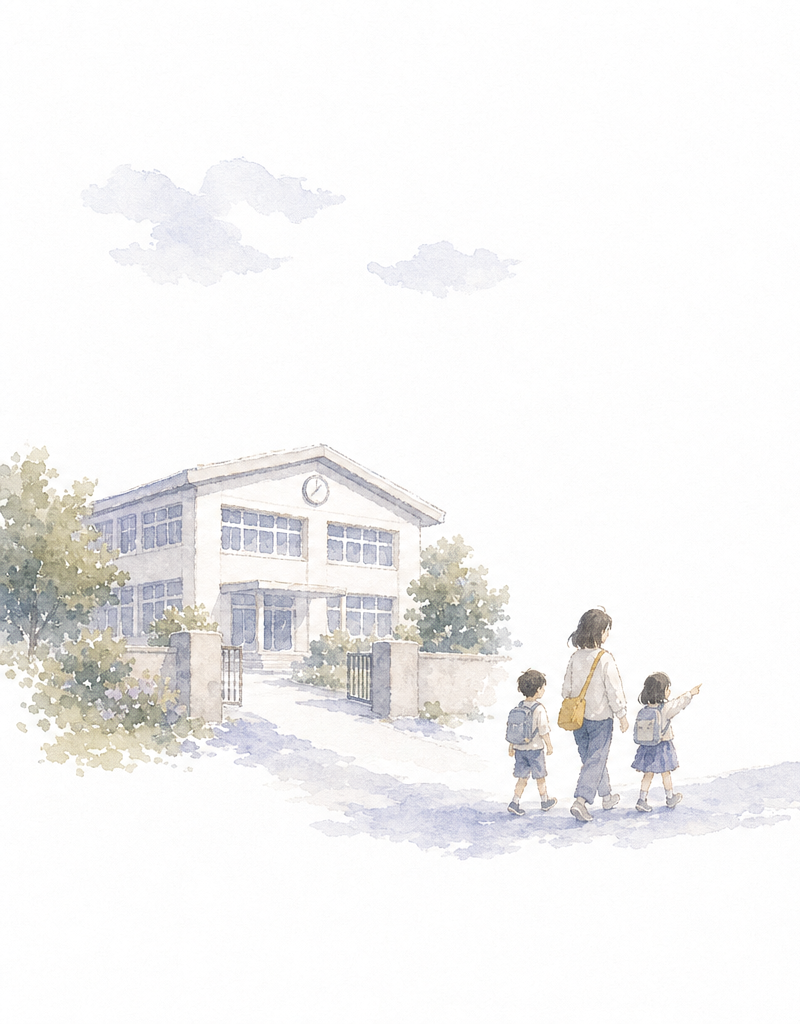
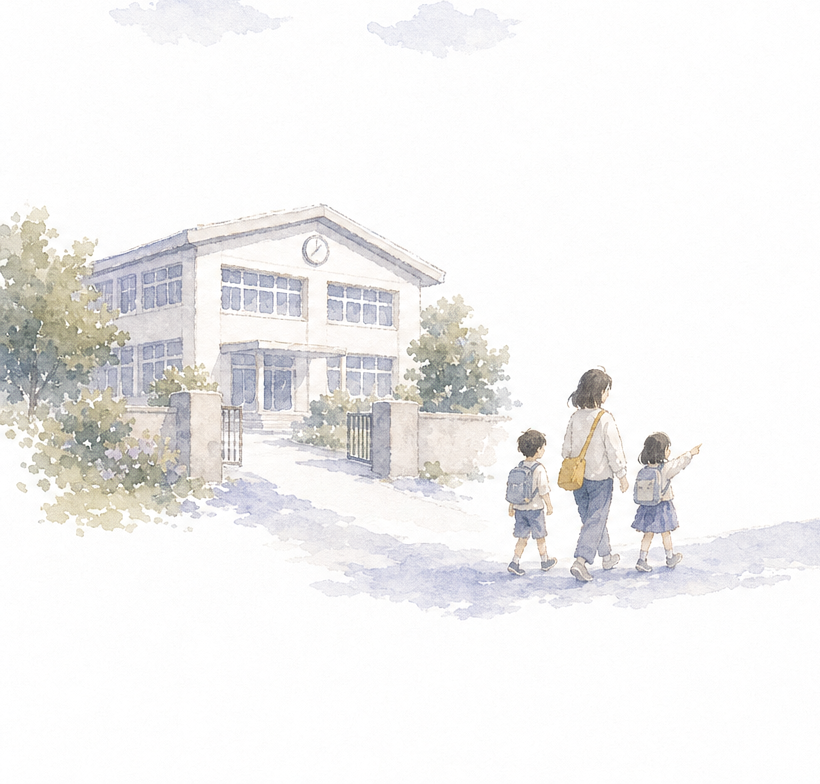
スマホ実機の指摘を反映：見出し1行ルール・SP左寄せ・ヘッダーピル削除
- 見出し(h2/vbig)はどの幅でも1行（nowrap＋vw連動の自動縮小・長文3見出しは短縮）
- SPヒーローを左寄せに（中央寄せのガタつき解消）・SP画像の上余白トリム
- ヘッダーの相談・連携ピルを削除（追いかけピルに一本化）

Changed region(s): [[0.0, 0.2449, 1.0, 0.8571], [0.1875, 0.2143, 0.25, 0.2449]]

diff --git a/index.html b/index.html
@@ -26,13 +26,14 @@
   html{ scroll-behavior:smooth; scroll-padding-top:74px; }
   body{ font-family:"Hiragino Kaku Gothic ProN","Hiragino Sans","Noto Sans JP",sans-serif;
         color:var(--ink); background:var(--paper); line-height:1.95; font-size:17px;
-        -webkit-font-smoothing:antialiased; position:relative; }
+        -webkit-font-smoothing:antialiased; position:relative; overflow-x:clip; }
   main, header, footer{ position:relative; z-index:1; }
   .alt{ background:var(--paper2); }
   img{ max-width:100%; display:block; }
   a{ color:inherit; }
   .wrap{ max-width:var(--max); margin:0 auto; padding:0 24px; }
-  h2{ font-family:"Zen Maru Gothic",sans-serif; font-weight:700;
+  /* 見出しはどの画面幅でも1行（折り返し禁止・幅に応じて縮小） */
+  h2{ font-family:"Zen Maru Gothic",sans-serif; font-weight:700; white-space:nowrap;
       font-size:clamp(26px,3.4vw,38px); letter-spacing:.04em; line-height:1.65; }
   .kick{ font-family:"Zen Maru Gothic",sans-serif; font-size:13.5px; letter-spacing:.3em;
          color:var(--ai); font-weight:700; }
@@ -134,7 +135,7 @@
            color:var(--ai); letter-spacing:.08em; }
   .vlabel small{ display:block; font-size:11.5px; color:var(--sub); font-weight:400;
                  letter-spacing:.14em; margin-top:2px; }
-  .vbig{ font-family:"Zen Maru Gothic",sans-serif; font-weight:700;
+  .vbig{ font-family:"Zen Maru Gothic",sans-serif; font-weight:700; white-space:nowrap;
          font-size:clamp(20px,2.4vw,27px); letter-spacing:.04em; line-height:1.7; }
   .vnote{ font-size:15px; color:#454a50; margin-top:8px; }
   .vlist{ list-style:none; }
@@ -257,6 +258,7 @@
   .contact-card{ background:var(--sora2); border-radius:26px; padding:58px 58px; position:relative; }
   .contact-card .deco{ position:absolute; right:44px; top:-34px; width:130px; pointer-events:none; }
   .contact-grid{ display:grid; grid-template-columns:1.05fr .95fr; gap:48px; }
+  .contact-card h2{ font-size:clamp(22px, 2.1vw, 28px); }
   .chips{ list-style:none; display:flex; flex-wrap:wrap; gap:9px; margin:16px 0 24px; }
   .chips li{ background:#fff; border:1px solid var(--line); border-radius:999px;
              padding:6px 17px; font-size:14px; color:#454a50; }
@@ -288,6 +290,8 @@
   @media (max-width:900px){
     br.pc{ display:none; }
     nav.g a:not(.btn){ display:none; }
+    h2{ font-size:min(30px, 4.3vw); }
+    .vbig{ font-size:min(24px, 4.3vw); }
     .sec{ padding:68px 0; }
     .sec-head .deco, .contact-card .deco{ display:none; }
     .hero-art{ display:flex; flex-direction:column-reverse; }
@@ -311,10 +315,11 @@
   /* ── スマホ（〜600px）：1列・圧縮 ── */
   @media (max-width:600px){
     body{ font-size:16.5px; }
-    nav.g .btn{ padding:9px 18px; font-size:13.5px; }
     .sec{ padding:60px 0; }
-    .hero-ov{ padding:26px 20px 6px; }
-    .hero .lead{ font-size:16px; }
+    .hero-ov{ padding:24px 22px 4px; align-items:flex-start; text-align:left; }
+    .hero .lead{ font-size:16px; text-align:left; }
+    .runby{ text-align:left; }
+    .cta{ justify-content:flex-start; }
     .sub3, .case3, .aud, .voices, .steps{ grid-template-columns:1fr; }
     .vm-row{ grid-template-columns:1fr; gap:8px; padding:24px 22px; }
     .origin{ padding:30px 22px; }
@@ -339,7 +344,6 @@
       <a href="#voice">先生の声</a>
       <a href="#news">お知らせ</a>
       <a href="#profile">プロフィール</a>
-      <a class="btn btn-ai" href="#contact">相談・連携</a>
     </nav>
   </div>
 </header>
@@ -443,7 +447,7 @@
     <div class="jitsu-head" data-rv>
       <div class="sec-head">
         <span class="kick">Service</span>
-        <h2>主軸は、授業改善のための<br class="pc">業務改善です。</h2>
+        <h2>主軸は、授業改善のための業務改善。</h2>
       </div>
       <p class="lead" style="max-width:400px; font-size:15.5px;">校務の時間を減らすこと自体が目的ではありません。空いた時間が授業の準備に戻って、はじめて意味があると思っています。</p>
     </div>
@@ -502,7 +506,7 @@
   <div class="wrap">
     <div class="sec-head" data-rv>
       <span class="kick">Record</span>
-      <h2>困りごとから始めて、続く形に整えるまで。</h2>
+      <h2>困りごとから始めて、続く形に。</h2>
     </div>
     <div class="case3">
       <div class="case" data-rv>
@@ -697,7 +701,7 @@
       <div class="contact-grid">
         <div>
           <span class="kick">Contact</span>
-          <h2>まずは、状況を<br>お聞かせください。</h2>
+          <h2>まずは、状況をお聞かせください。</h2>
           <p style="margin-top:14px; font-size:15.5px; color:#454a50;">校内研修、登壇、教育DXの実践共有、学校と企業・地域をつなぐ共同企画など。現在は現役教員として活動しているため、所属先の規程と手続きを確認のうえ、お受けできるかも含めてお返事します。</p>
         </div>
         <div>
